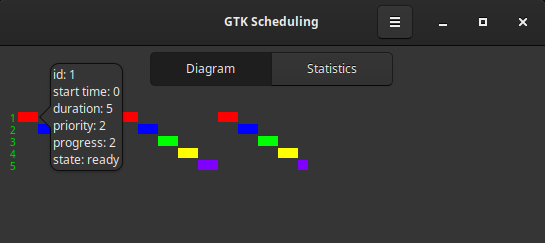
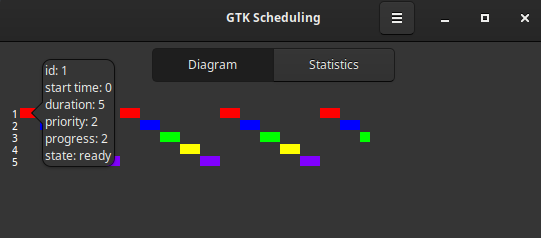
changed task line number to white and updated the img

diff --git a/src/rectangle.py b/src/rectangle.py
@@ -8,7 +8,7 @@ class Rectangle(Gdk.Rectangle):
         width: int = 0,
         height: int = 0,
         caption: int = 0,
-        color: tuple[float, float, float] = (0.0, 0.8, 0.0)
+        color: tuple[float, float, float] = (1, 1, 1)
     ):
         self.x = x
         self.y = y
